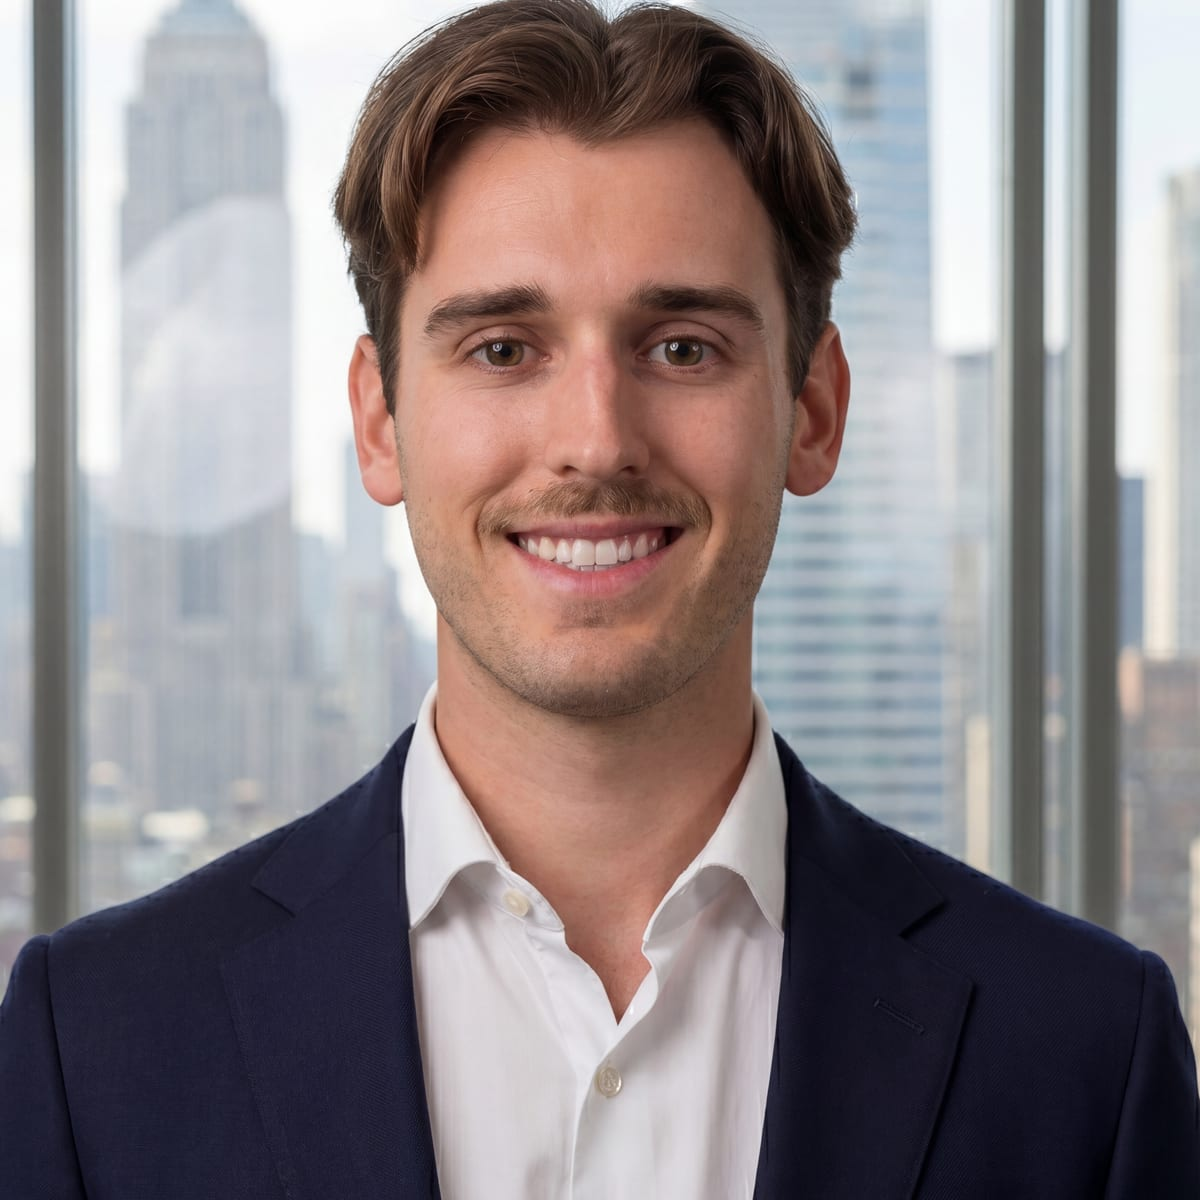
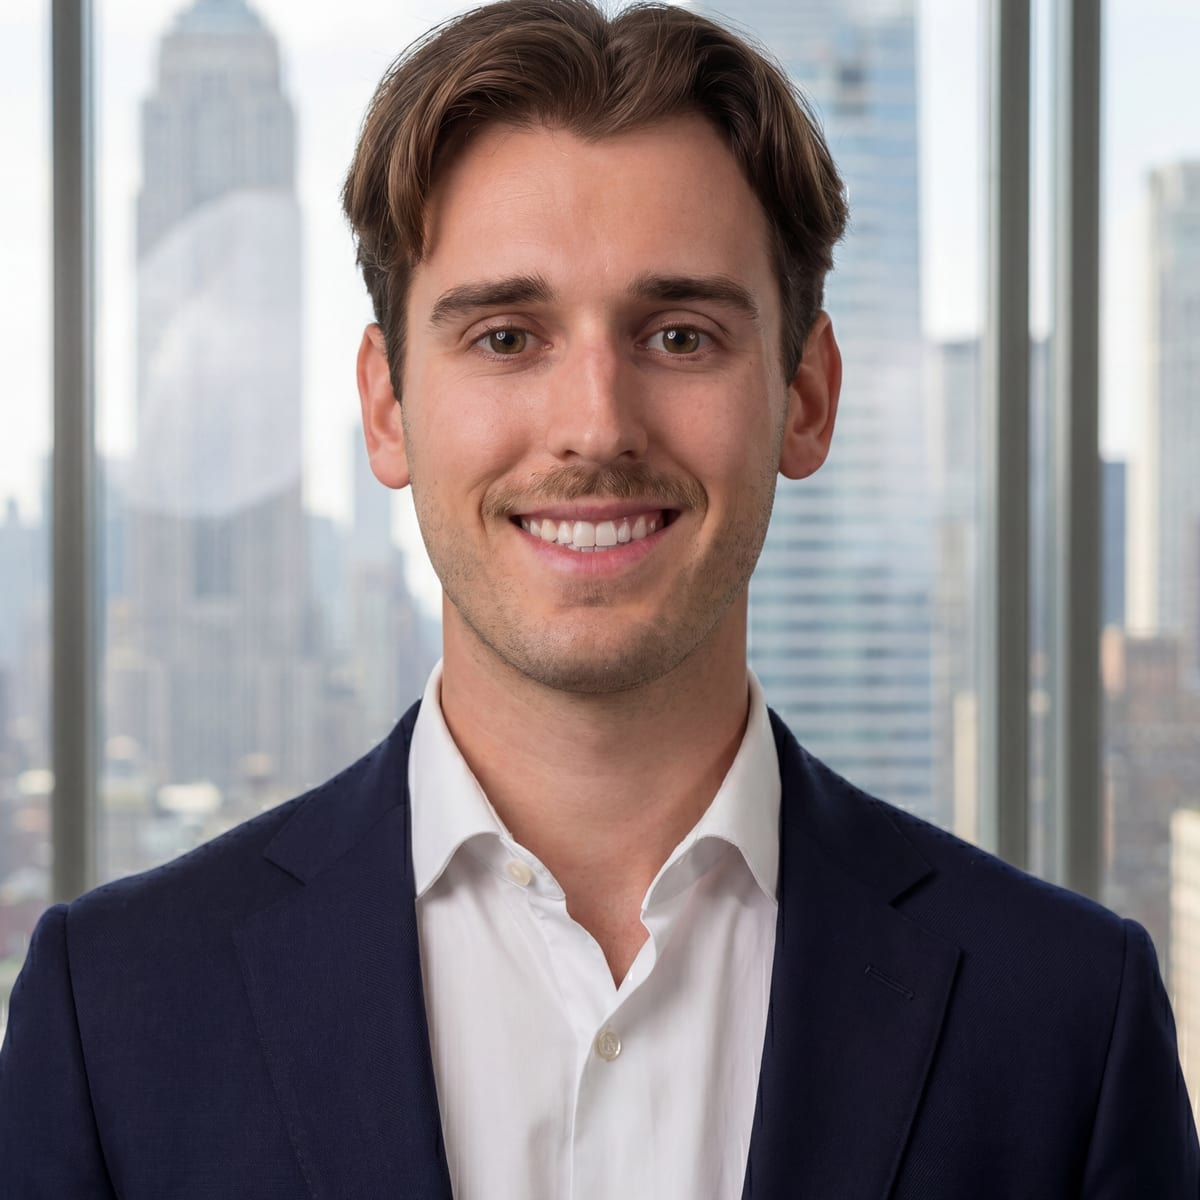
Add venture capital to Cole McNally bio; re-crop headshot at 1.16x
Bio now reflects involvement across private credit, real estate, and
venture capital. Headshot zoom adjusted from 1.2x to 1.16x.

diff --git a/app/team/cole-mcnally/page.tsx b/app/team/cole-mcnally/page.tsx
@@ -60,7 +60,7 @@ export default function ColeMcNally() {
 
               <div className="prose prose-lg max-w-none">
                 <p className="text-gray-700 leading-relaxed mb-6">
-                  Cole McNally is an Investment Associate at K4 Capital Management, where he focuses on investment analysis, deal sourcing, and portfolio monitoring across the firm's private credit and real estate investments. He supports transaction execution in mezzanine debt and structured equity opportunities through financial modeling and due diligence.
+                  Cole McNally is an Investment Associate at K4 Capital Management, where he focuses on investment analysis, deal sourcing, and portfolio monitoring across the firm's private credit, real estate, and venture capital investments. He supports transaction execution in mezzanine debt, structured equity, and early-stage venture opportunities through financial modeling and due diligence.
                 </p>
 
                 <p className="text-gray-700 leading-relaxed mb-6">
